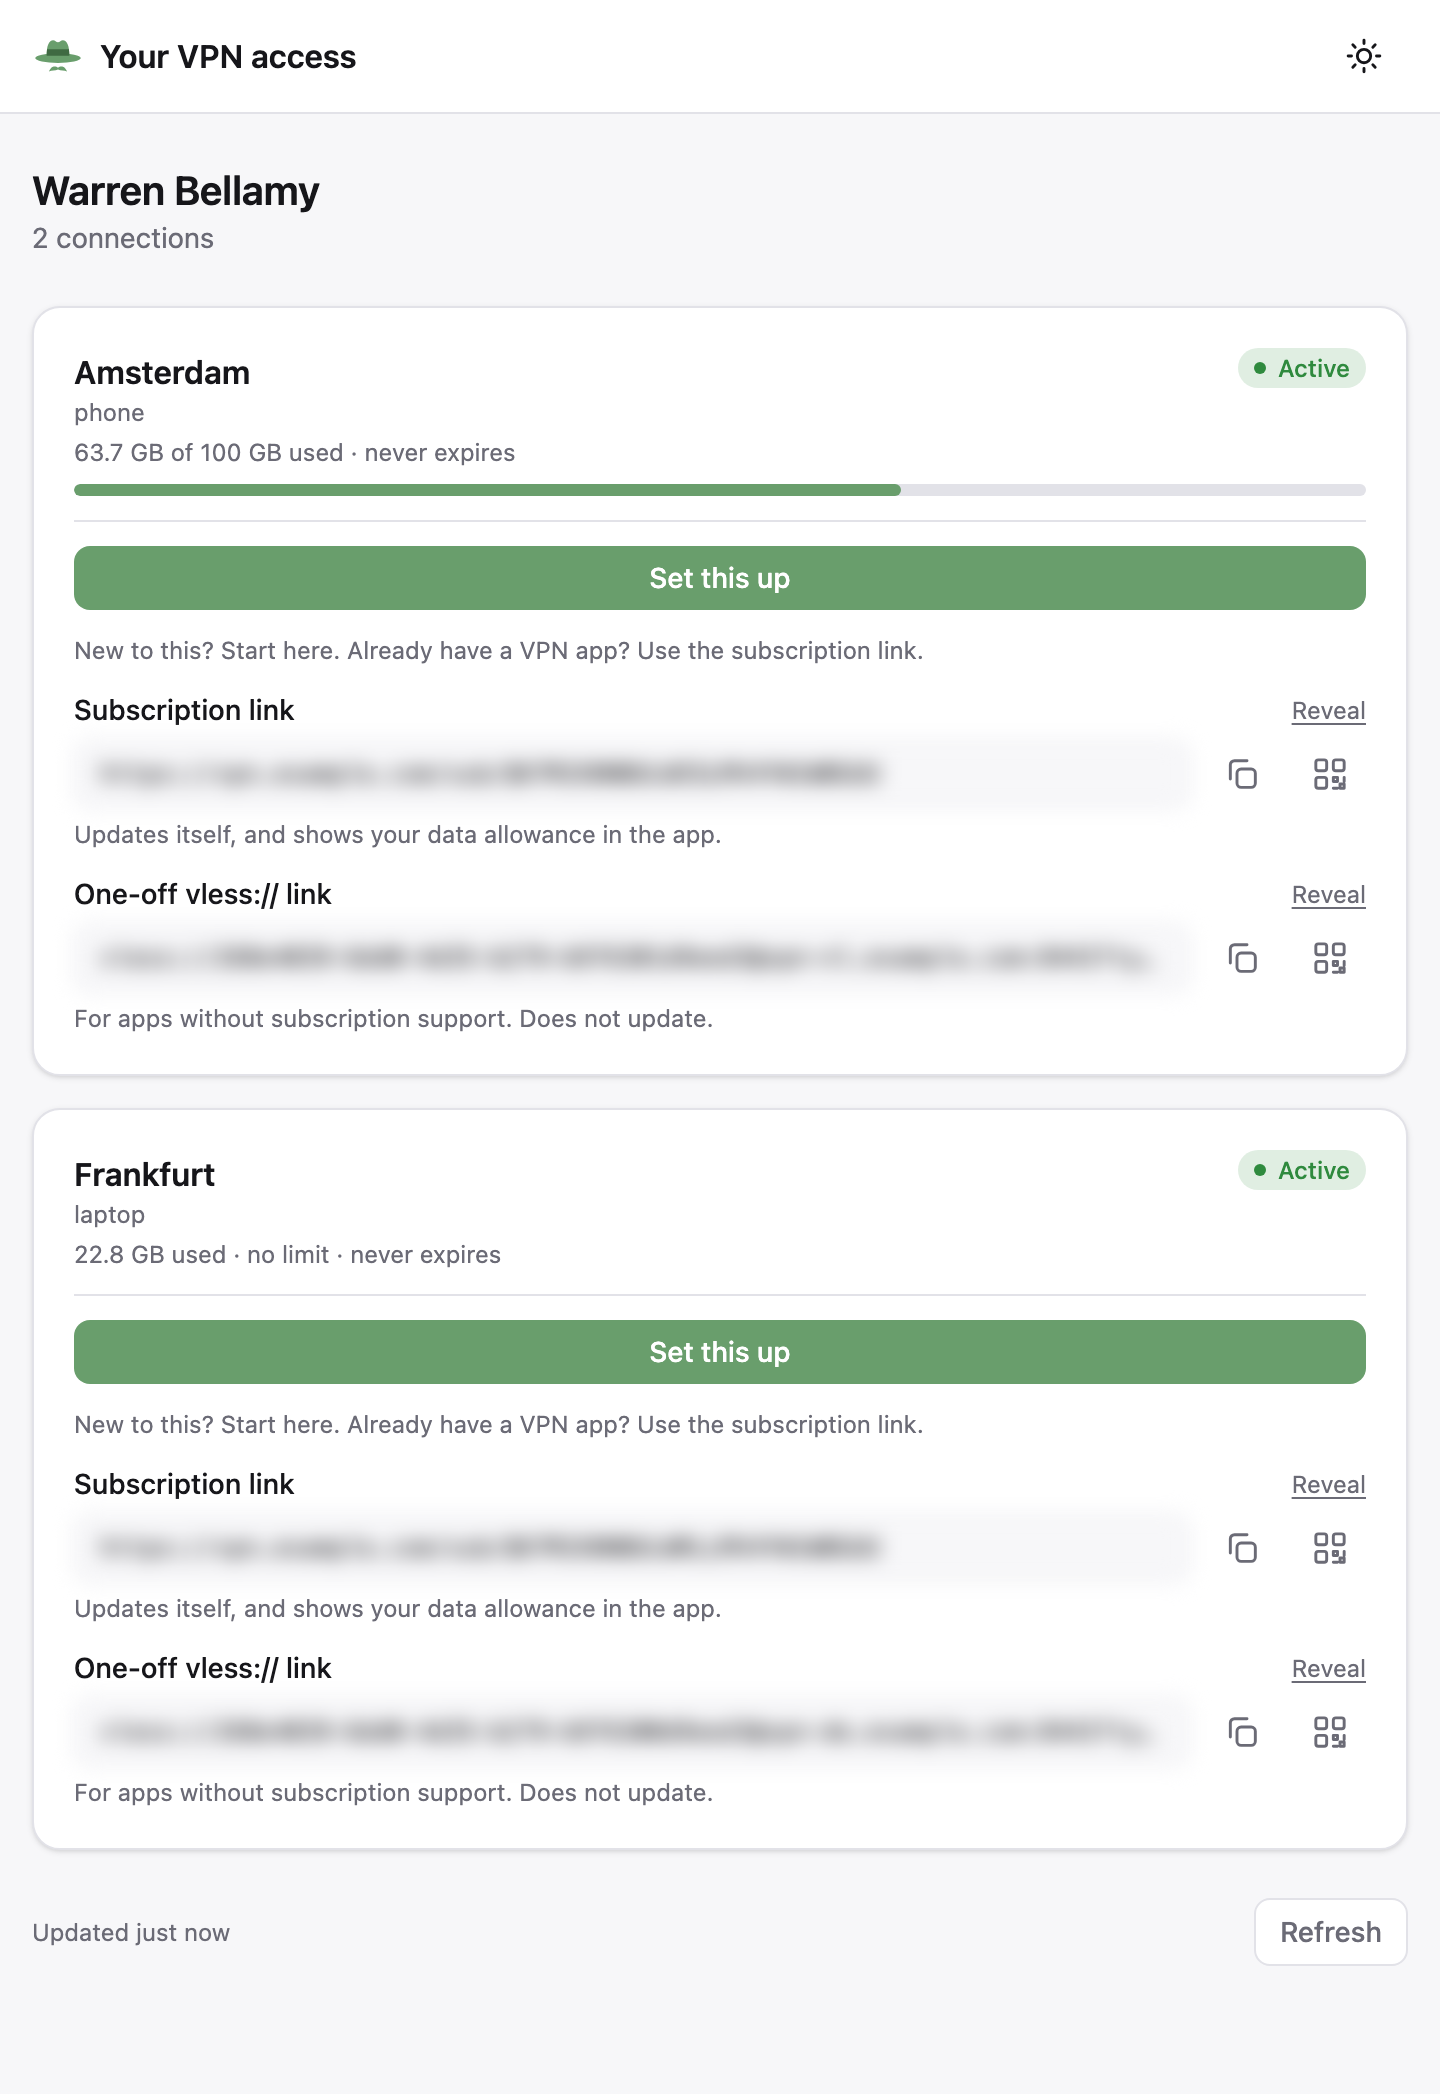
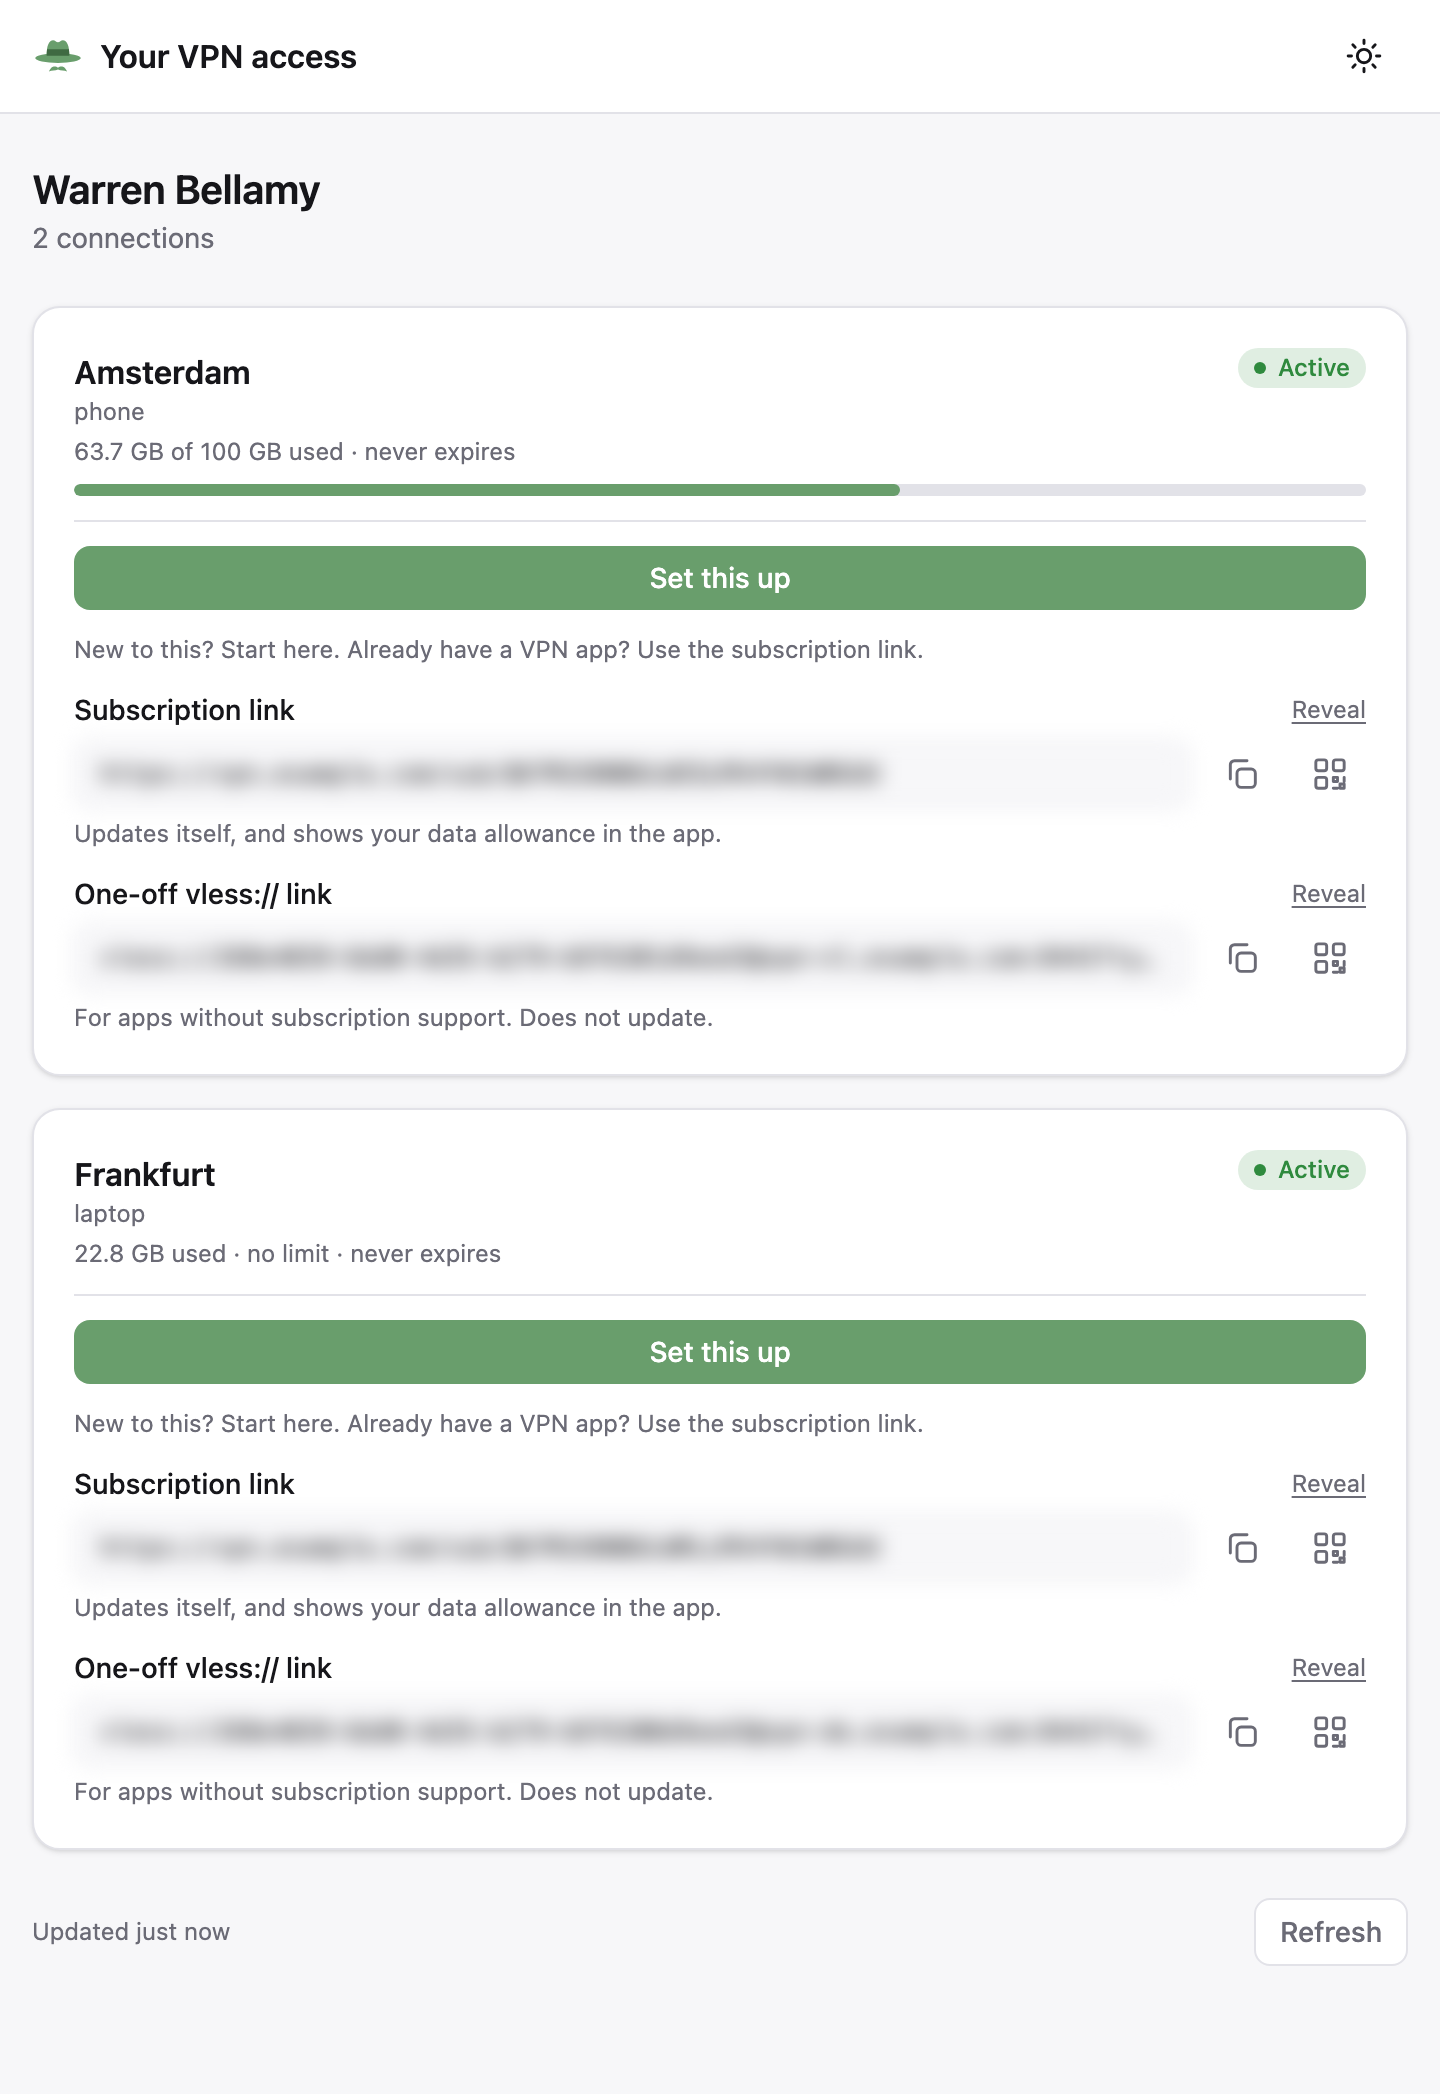
Stamp the screenshots with their density, and recapture them

Changed region(s): [[0.9062, 0.776, 0.9375, 0.8071], [0.9062, 0.4035, 0.9375, 0.4346], [0.0625, 0.5587, 0.0938, 0.5898]]

diff --git a/docs/screenshots/README.md b/docs/screenshots/README.md
@@ -39,7 +39,9 @@ THEME=dark docs/screenshots/capture.sh    # default light
 ```
 
 720 CSS pixels at `deviceScaleFactor: 2` gives 1440-pixel-wide files that stay crisp on a
-retina display and still sit sensibly two-to-a-row in a README. Height is measured from the
+retina display and still sit sensibly two-to-a-row in a README. Each PNG says its density,
+72 dpi times the scale, as a macOS screenshot does — a `pHYs` chunk and an EXIF block — so an
+image viewer opens it at 720 points rather than at double size. Height is measured from the
 content, so none of them carry a screenful of empty page.
 
 **Do not drop below 640** without meaning to. That is the panel's `sm` breakpoint: under it
